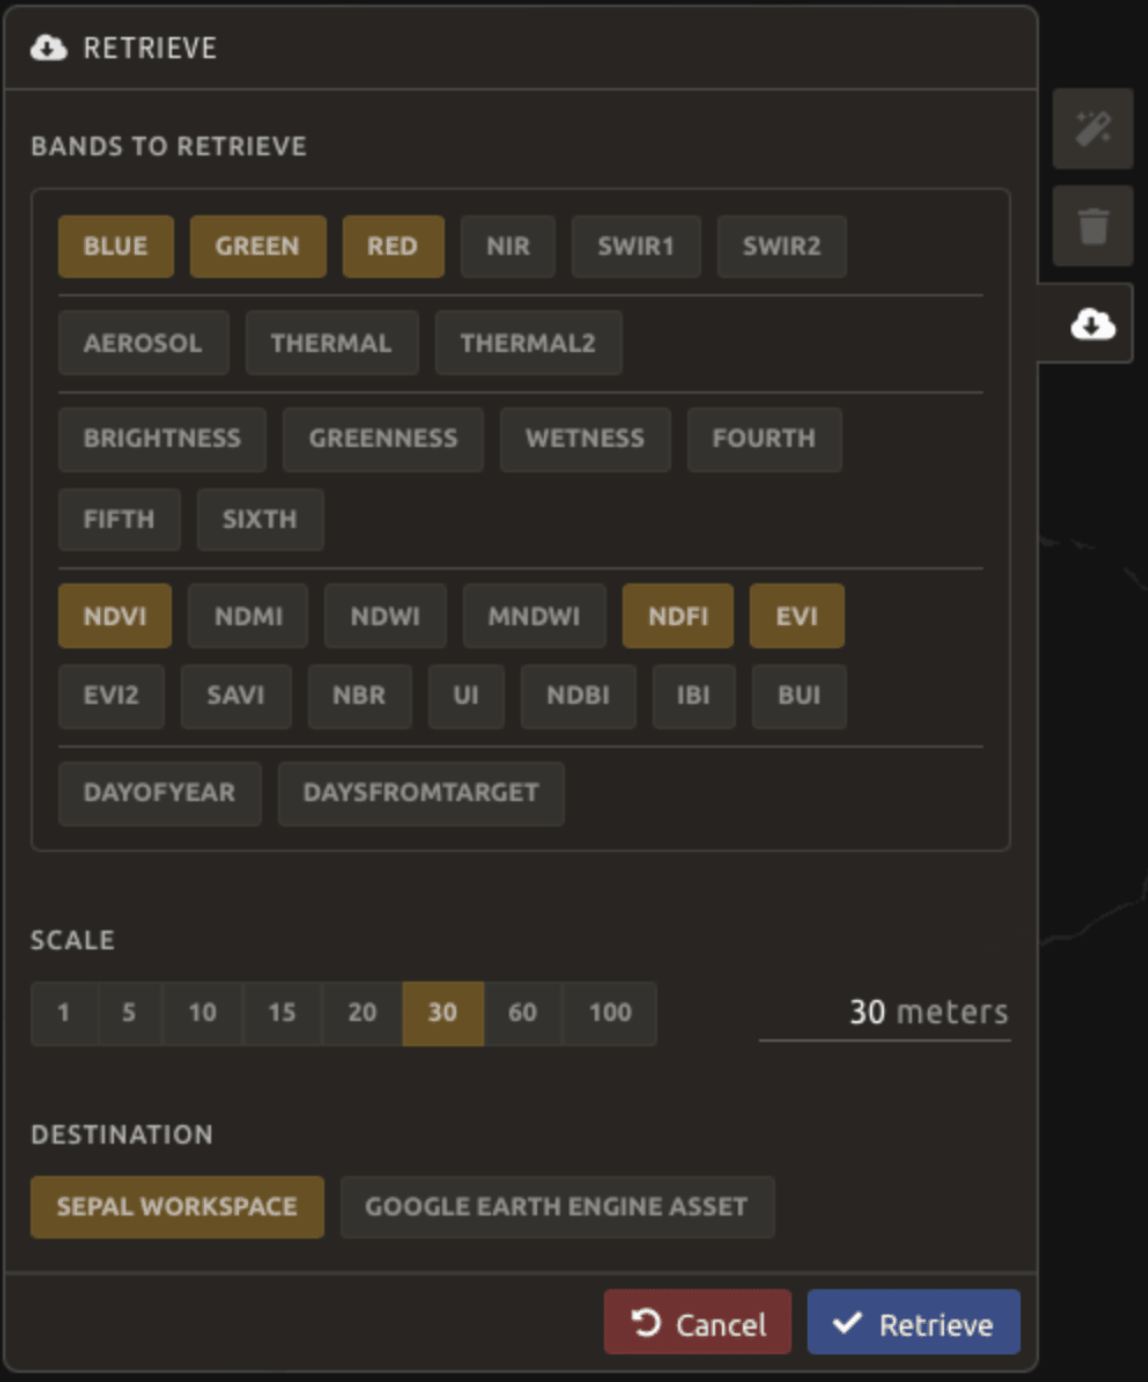
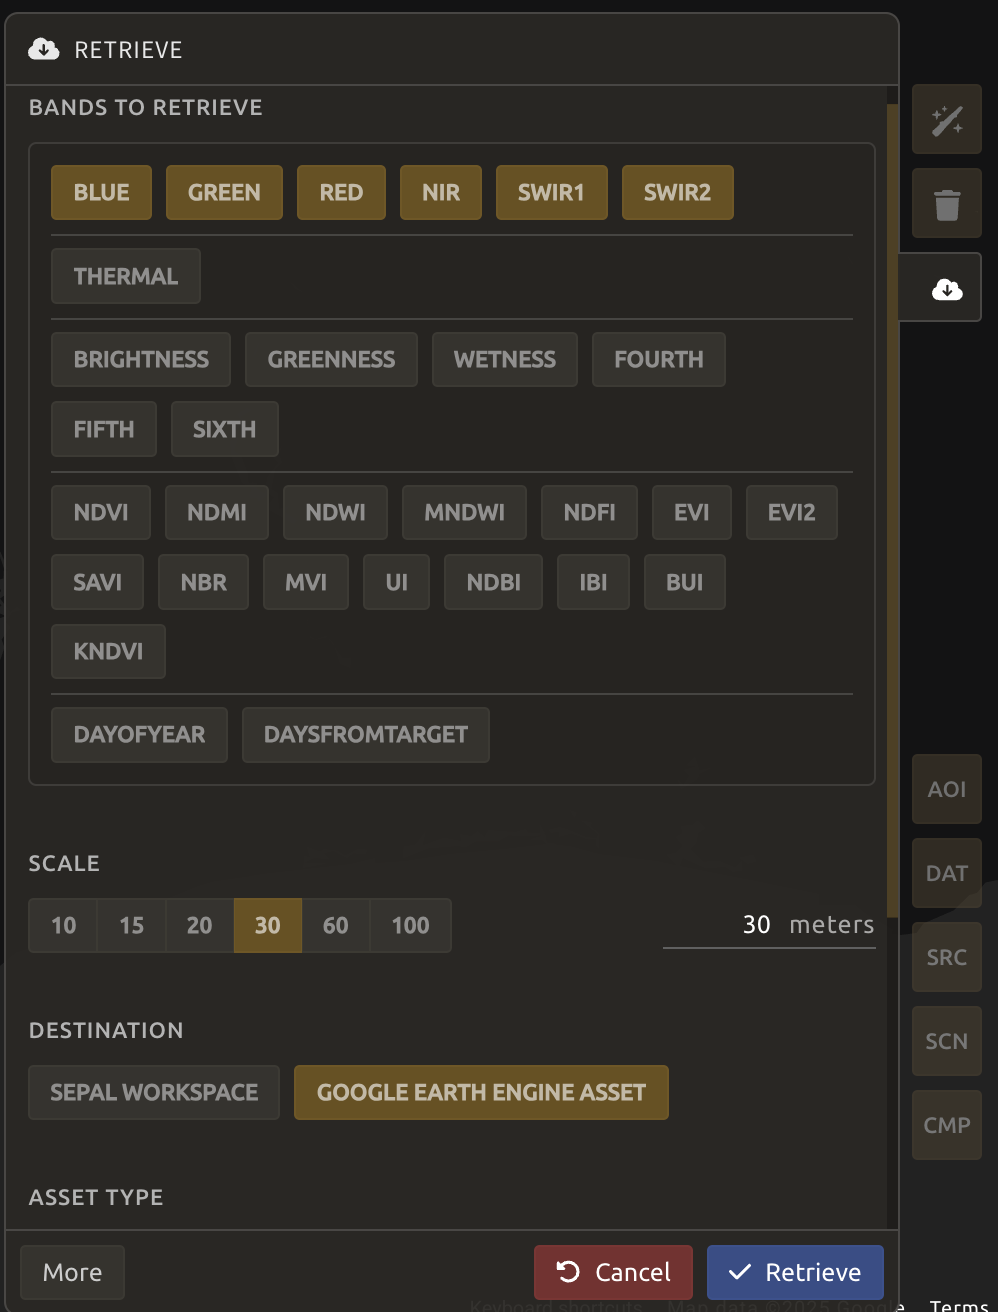
sepal prep updates

diff --git a/08_class_SEPAL/01_preprocessing.md b/08_class_SEPAL/01_preprocessing.md
@@ -201,34 +201,47 @@ You can set a custom scale for exportation by changing the value of the slider i
 ##### **Destination**
 You can export the image to the SEPAL workspace or to the Google Earth Engine Asset folder. The same image will be exported to both; however, for the former, you will find it in `.tif` format in the `Downloads` folder; for the latter, the image will be exported to your GEE account asset list.
 
-Select `Apply` to start the download process.
 
 > **Note:** If `Google Earth Engine Asset` is not displayed, ensure your [GEE account is connected to SEPAL](https://docs.sepal.io/en/latest/setup/gee.html).
 
 ![Retrieve pane](../images/sepal/sepal_prep/sepal_prep_14.png)
 
+Select `Google Earth Engine Asset` and enter the directory where you want to export the assets. See the example below:
+
+```
+projects/pc556-ncs-liberia-forest-mang/assets/liberia_2014_lc
+```
+
+Select `Retrieve` to start the download process.
+
+![Retrieve pane](../images/sepal/sepal_prep/sepal_prep_14_5.png)
+
+
 ### Exportation status
 
-Monitor task progress in the **Tasks** tab (bottom-left corner of the screen). 
+Monitor task progress in the **Tasks** tab (bottom-left corner of the screen). When the task is finished, the frame will be displayed in green.
 
-If you have selected GEE Asset as a destination, then you can also monitor tasks using the [GEE task manager](https://code.earthengine.google.com/tasks).
 
 ![Download process](../images/sepal/sepal_prep/sepal_prep_15.png)
 ![Download process](../images/sepal/sepal_prep/sepal_prep_16.png)
 ![Download process](../images/sepal/sepal_prep/sepal_prep_17.png)
-![Download process](../images/sepal/sepal_prep/sepal_prep_18.png)
+
 
 
 > **Tip:**
 >
 > This operation is running between GEE and SEPAL servers in the background. You can close the SEPAL page without stopping the process.
 
-When the task is finished, the frame will be displayed in green.
+
+If you have selected GEE Asset as a destination, then you can also monitor tasks using the [GEE task manager](https://code.earthengine.google.com/tasks).
+
+![Download process](../images/sepal/sepal_prep/sepal_prep_18.png)
+
 
 
 ### Access
 
-Once downloaded, the data is stored in the `Downloads` folder. You can access it using the following format:
+If exported to SEPAL workspace, the data is stored in the `Downloads` folder. You can access it using the following format:
 
 ```bash
 .
@@ -238,16 +251,10 @@ Once downloaded, the data is stored in the `Downloads` folder. You can access it
         └── <MO name>_<gee tile id>.vrt
 ```
 
-The data are stored in a folder using the name of the optical mosaic as it was created in the first section of this article. As the number of data is spatially too big to be exported at once, the data are divided into smaller pieces and brought back together in a `<MO name>_<gee tile id>.vrt` file.
-
-![Download process](../images/sepal/sepal_prep/sepal_prep_19.png)
+If exported as GEE asset, you can find it in your asset folder under the name of the optical mosaic as it was created in the first section of this article. 
 
 
-> **Tip:**
->
-> The full folder structure is required to read the `.vrt` file.
-
-Now that you've downloaded the optical mosaic, you can use it in other SEPAL workflows or transfer it to your computer using [FileZilla](https://filezilla-project.org/).
+Now that you've downloaded the optical mosaic, you can use it in other SEPAL workflows.
 
 
 ## Radar mosaics
